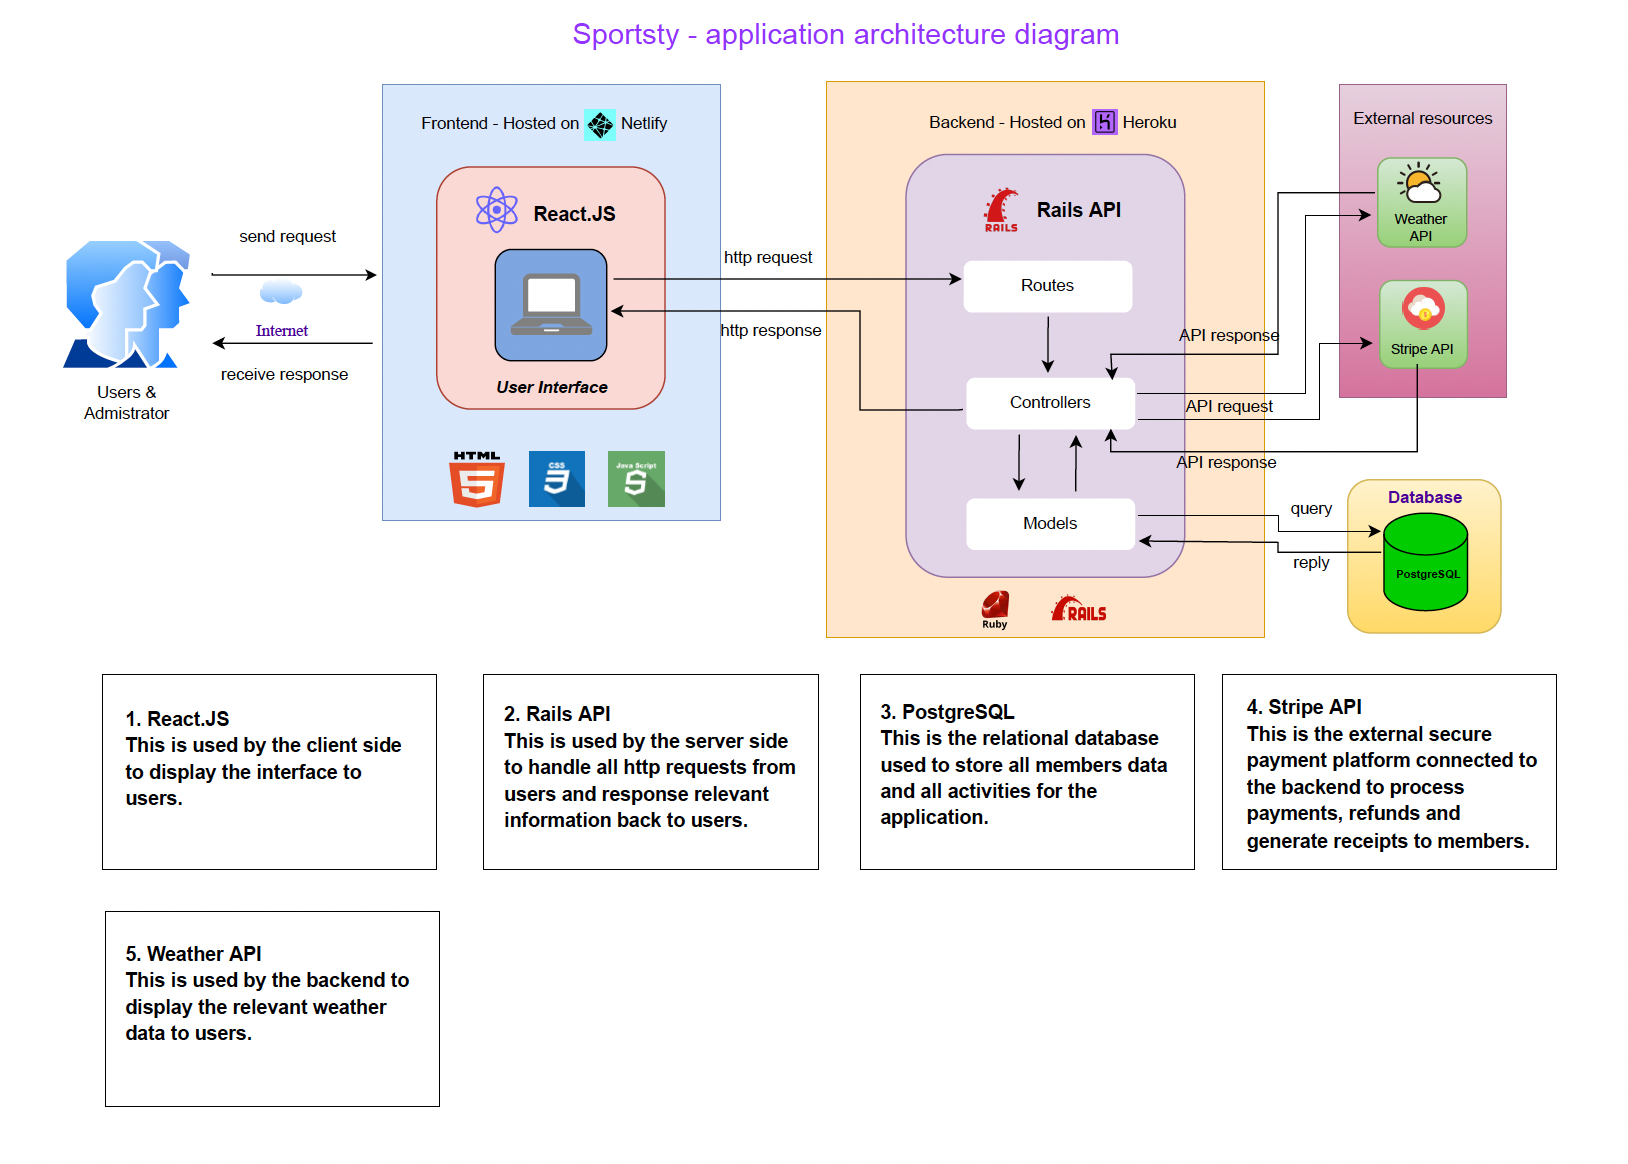
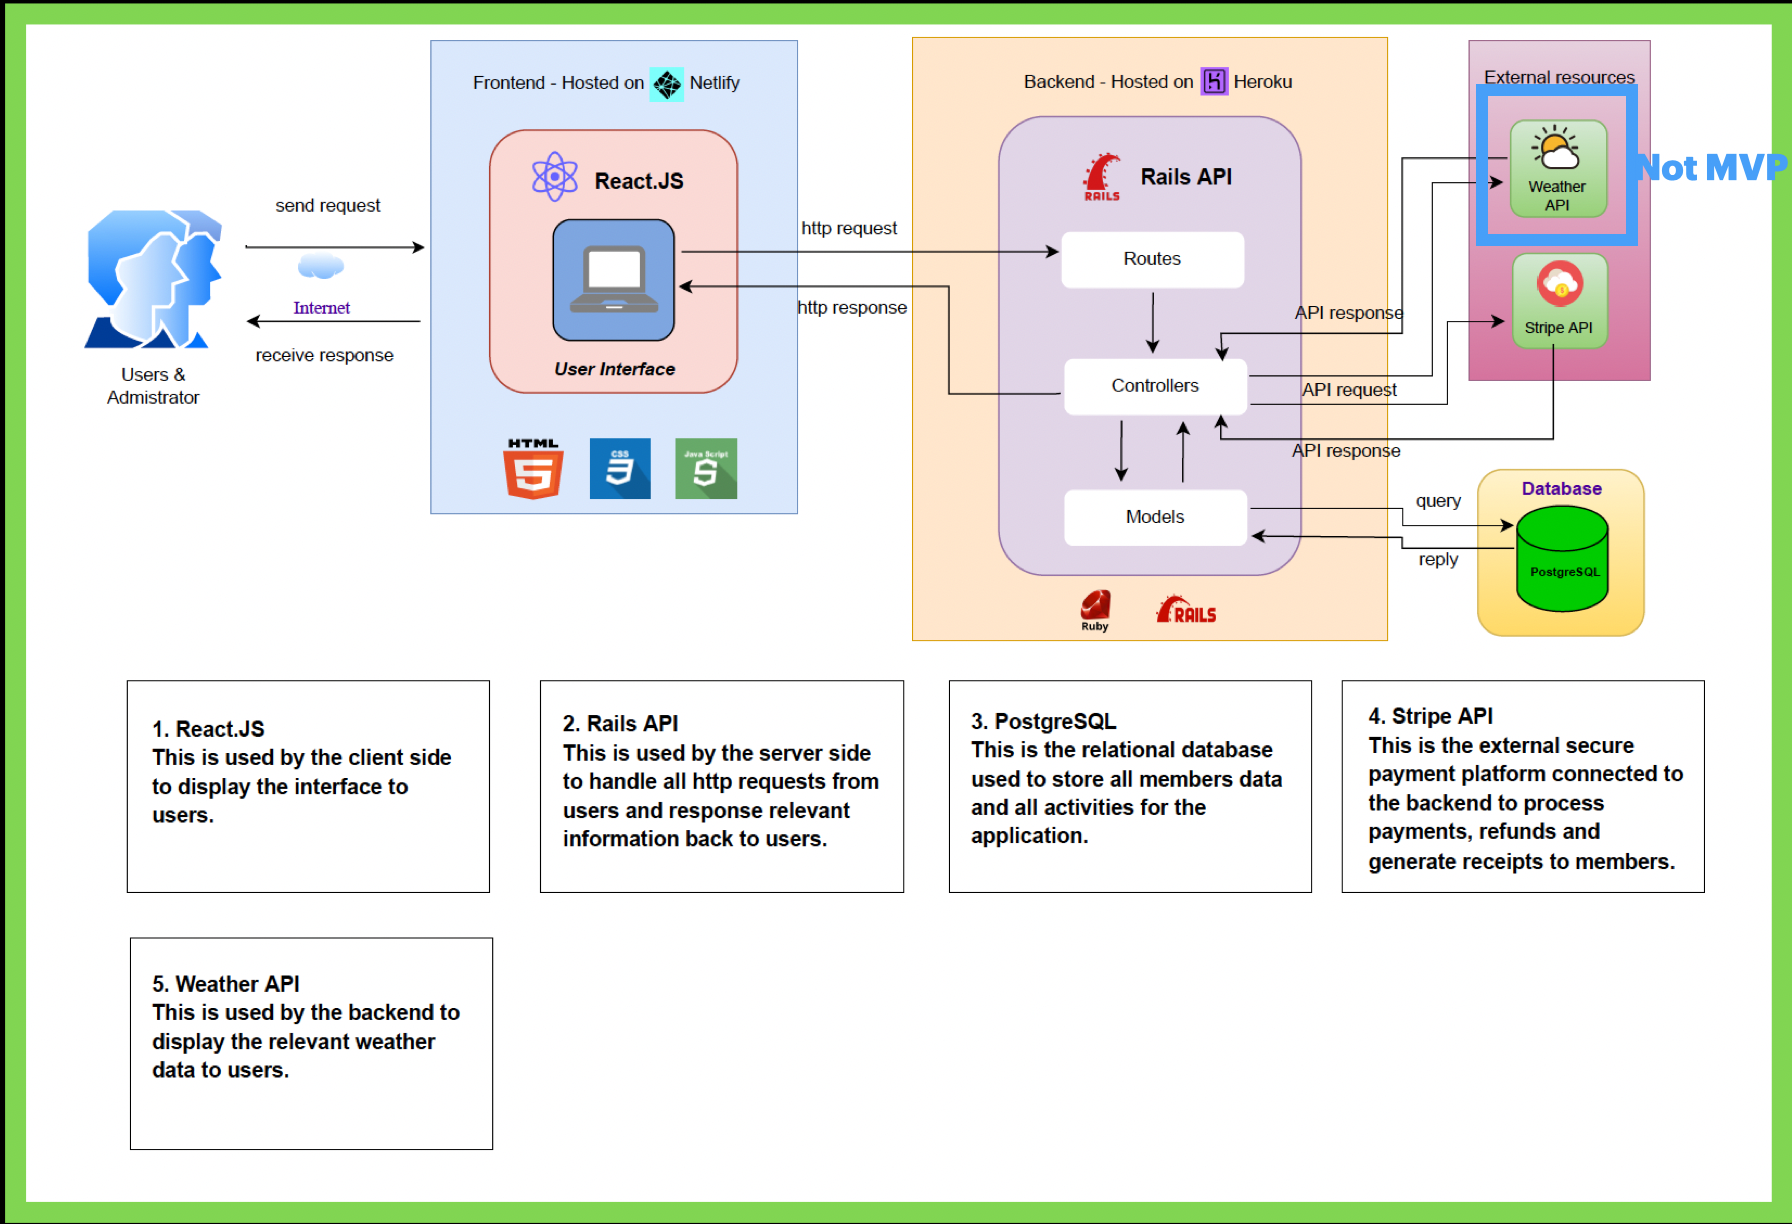
User Stories edited

diff --git a/README.md b/README.md
@@ -159,22 +159,38 @@ DevOps: Git, Github, VS Code
 
 ## Application Architecture Diagram
 
-![ArcDiag](ArchitectureDiagram.png)
+![ArcDiag](docs/ArchitectureDiagram.png)
 
+The one thing to note in the above Architecture Diagram is that the implementation of the system accessing the Weather API is not part of the MVP(Minimum Viable Product) design. It is a feature that will be implemented once all the MVP features have been sucessfully implemented.
 ## User Stories
 
 ### Initial market research:
-three personas of users:
-- Jason Smith (Male, age 20) 
--- As a student I want to join different sports activities like tennis, soccer everyweek and make more young friends.
 
-- Melinda Jacob (Female, age 35)
--- As a mum of two kids I want to join mild activity like running to release life pressure and talk to others with similar situation.
-
-- John Brown (Male, age 62)
--- As a retired professor I want to join light physical activity like hiking to keep health and explore more nature scenery.
+![userStoriesPersonas](docs/UserStories/UserStoriesPersonas.png)
 
 ### Final market research:
+
+|   AS A..  |                                             I WANT TO..                                            |                                   SO THAT..                                  |
+|:---------:|:--------------------------------------------------------------------------------------------------:|:----------------------------------------------------------------------------:|
+| Guest     | I want to explore all activities.                                                                  | I can decide whether I will sign up as a member to attend sports activities. |
+| Guest     | I want to sign up as a member.                                                                     | I can register any available sports activities.                              |
+| Guest     | I want to contact admin of this website.                                                           | I can make some enquiries.                                                   |
+| Member    | I want to manage my profile.                                                                       | I can keep it up to date.                                                    |
+| Member    | I want to inquire to particular activity or organiser.                                             | I can know better about the activity like equipment, location etc.           |
+| Member    | I want to make a payment after register the activity.                                              | I can get a ticket to attend the activity.                                   |
+| Member    | I want to message other members or admin.                                                          | We can communicate directly.                                                 |
+| Member    | I want to see my personal dashboard.                                                               | I can find all my registered activities.                                     |
+| Member    | I want to see all members' briefing information.                                                   | I can find someone has same interests and location.                          |
+| Member    | I want to be an activity organiser                                                                 | I can organise my own activities.                                            |
+| Organiser | I want to see my dashboard.                                                                        | I can see all my organised activities.                                       |
+| Organiser | I want to see all members' briefing information                                                    | I can monitor what activities is more popular.                               |
+| Organiser | I want to reply messages from members.                                                             | I can quickly answer all enquiries related to the activity.                  |
+| Admin     | I want to have a dashboard.                                                                        | I can manage all activities and members in one place.                        |
+| Admin     | I want to be able to manage activities so that I can create, update and delete activity as needed. |                                                                              |
+| Admin     | I want to be able to manage member's profile.                                                      | I can keep it up to date.                                                    |
+| Admin     | I want to be able to answer general enquiries.                                                     | I can reply the messages sending from contact page.                          |
+
+
 #### Non-member user stories:
 - As a non-member user I want to explore all activities before I can decide whether I will sign up as a member to attend sports activities.
 - As a non-member user I want to sign up as a member so that I can register any available sports activities.
